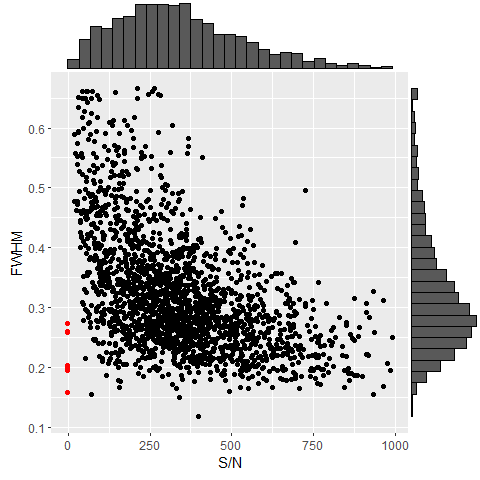
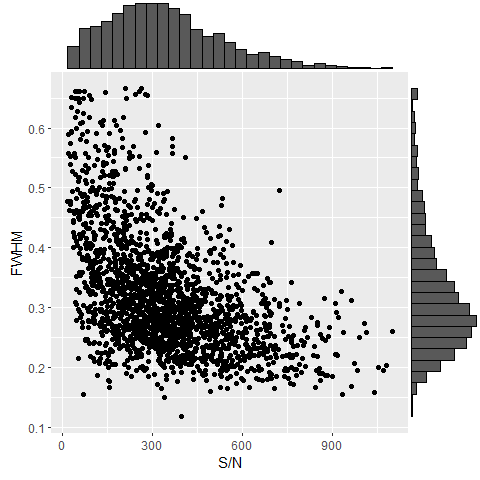
S/N values fixed

diff --git a/summary.md b/summary.md
@@ -50,19 +50,21 @@ HAT hepatic fat study
   - The HFF value ranges from 0.04% to 54%, with mean of 10% (median
     5.7%)
     - Its distribution appears to be very right-skewed
-  - Note the negative value of -1 on S/N ratio – what does this
-    indicate? **\[Clarify\]**
-  - There are 7 MRI measurements that have a value `-1` on S/N ratio
+  - ~~Note the negative value of -1 on S/N ratio – what does this
+    indicate? **\[Clarify\]**~~
+  - ~~There are 7 MRI measurements that have a value `-1` on S/N ratio~~
+  - The issue of S/N = -1 has been corrected – see the email
+    correspondence on 1/27/25
 
 <!-- -->
 
-    ##       hff                 FWHM             sn       
-    ##  Min.   :0.0004123   Min.   :0.117   Min.   : -1.0  
-    ##  1st Qu.:0.0247974   1st Qu.:0.252   1st Qu.:202.0  
-    ##  Median :0.0568708   Median :0.299   Median :319.0  
-    ##  Mean   :0.1008132   Mean   :0.320   Mean   :342.3  
-    ##  3rd Qu.:0.1408586   3rd Qu.:0.365   3rd Qu.:452.0  
-    ##  Max.   :0.5446429   Max.   :0.666   Max.   :991.0  
+    ##       hff                 FWHM             sn        
+    ##  Min.   :0.0004123   Min.   :0.117   Min.   :  19.0  
+    ##  1st Qu.:0.0247974   1st Qu.:0.252   1st Qu.: 204.0  
+    ##  Median :0.0568708   Median :0.299   Median : 321.0  
+    ##  Mean   :0.1008132   Mean   :0.320   Mean   : 346.1  
+    ##  3rd Qu.:0.1408586   3rd Qu.:0.365   3rd Qu.: 457.0  
+    ##  Max.   :0.5446429   Max.   :0.666   Max.   :1100.0  
     ##  NA's   :3           NA's   :3       NA's   :3
 
 ### Distribution of HFF
@@ -154,11 +156,13 @@ HAT hepatic fat study
 ## Notes
 
 - Zoom meeting on 1/23/2025 (KL/GS/CH/KO)
-  - S/N = -1 indicates invalid values?
+  - ~~S/N = -1 indicates invalid values?~~
 
-    - Kristie can look up PIDs of those subjects
-    - Dr. Barnes can look into those images to check if HFF values make
-      sense
+    - ~~Kristie can look up PIDs of those subjects~~
+    - ~~Dr. Barnes can look into those images to check if HFF values
+      make sense~~
+    - **\[Updated\]** The issue of S/N = -1 has been corrected – see the
+      email correspondence on 1/27/25
 
   - It is plausible to see changes of HFF \> 0.2 according to Dr. Barnes
 
@@ -178,8 +182,7 @@ HAT hepatic fat study
       - Want to identify those overeating
 
   - KO to proceed analysis without excluding potential outliers for now
-
-    - Can exclude any outliers later
+    – Can exclude any outliers later
 
   - KL to communicate with Dr. Barnes
 
